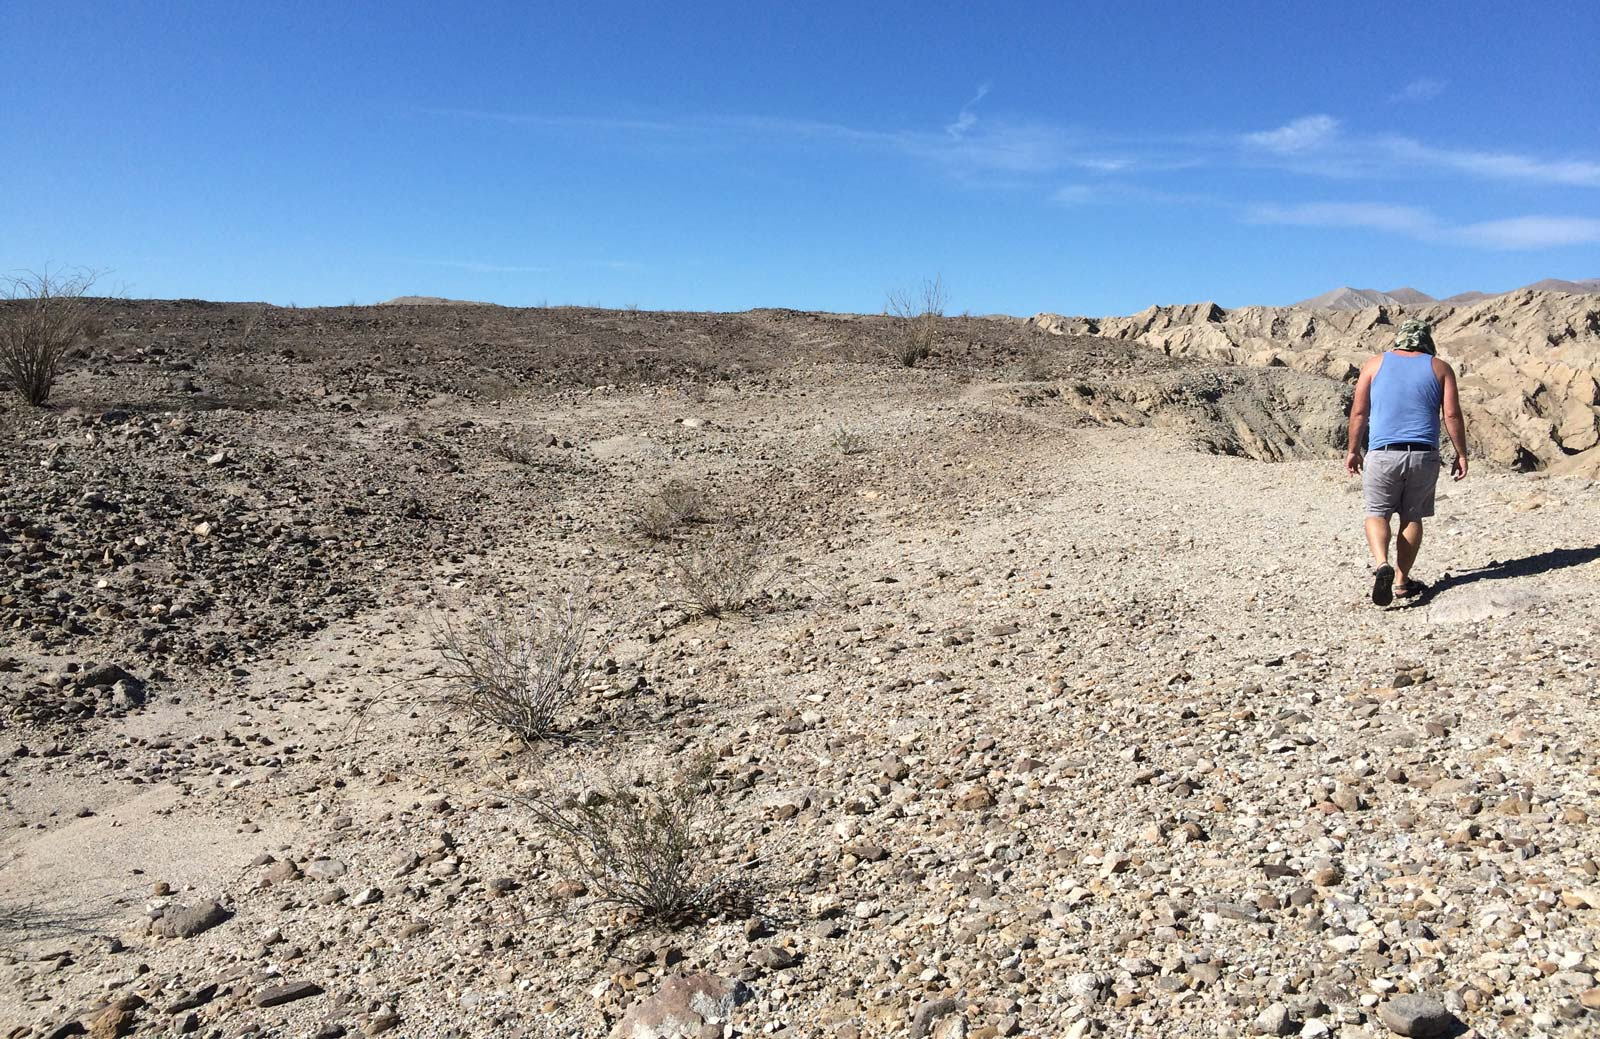
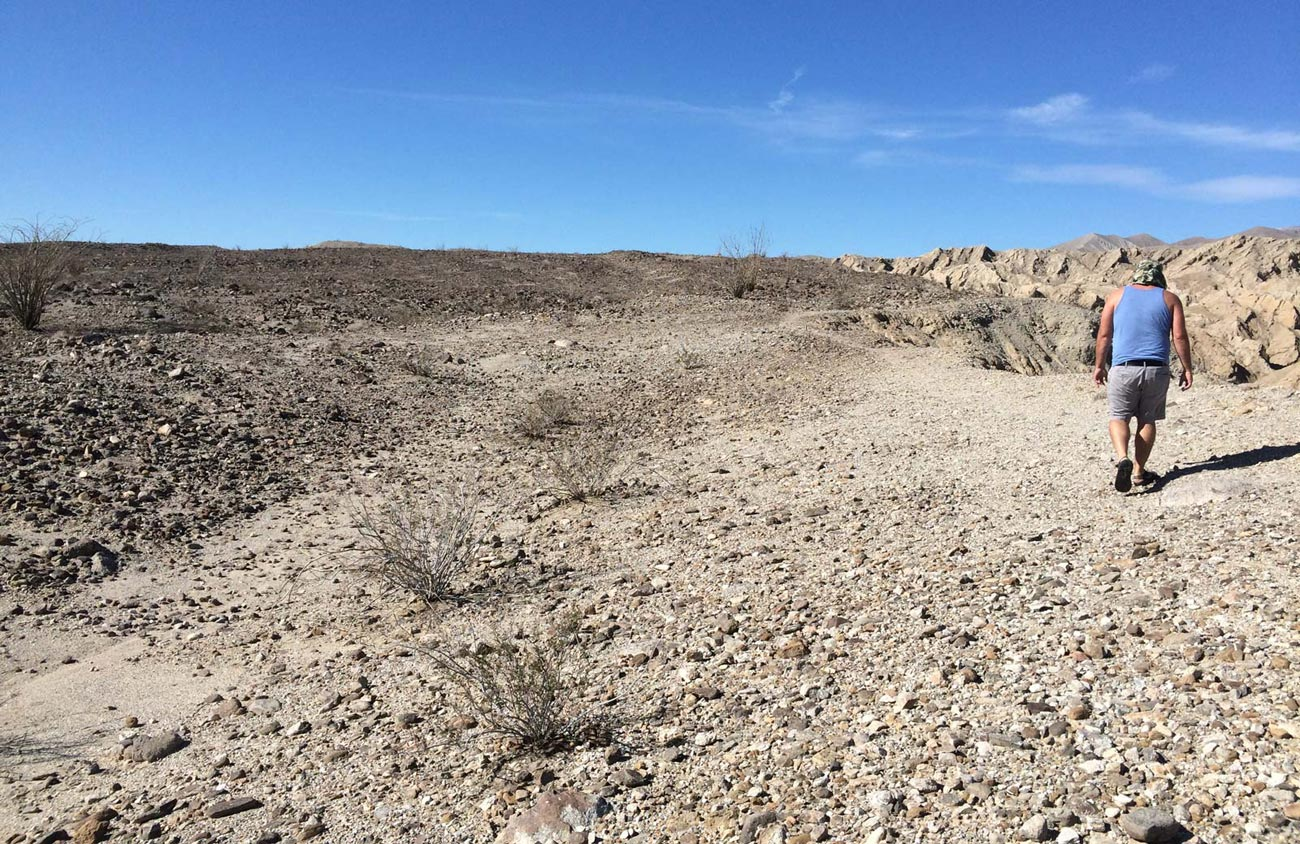
Added blur and opacity fade in on header image load.

diff --git a/js/app/app.jsx b/js/app/app.jsx
@@ -7,6 +7,7 @@ import DemoModal from '../demo-modal/demo-modal';
 import Header from '../ui/header';
 import Footer from '../ui/footer';
 import styles from './app.less';
+import cx from 'classnames';
 import keydown from 'react-keydown';
 
 class App extends Component {
@@ -21,12 +22,29 @@ class App extends Component {
 
         this.state = {
             project: null,
-            modalBgColor: null
+            modalBgColor: null,
+            contentReady: false
         };
 
         this.openModal = this.openModal.bind(this);
         this.closeModal = this.closeModal.bind(this);
     }
+
+    /**
+     *
+     */
+    componentDidMount() {
+
+        let img = new Image();
+
+        img.onload = () => {
+            this.setState({
+                contentReady: true
+            })
+        };
+
+        img.src = "/img/hero-bg.jpg";
+    };
 
     /**
      *
@@ -59,11 +77,16 @@ class App extends Component {
      * @returns {XML}
      */
     render() {
+
+        let className = cx(styles['app-body'], {
+            [styles.show]: this.state.contentReady
+        });
+
         return (
             <MuiThemeProvider>
                 <BrowserRouter>
                     <Route exact path="/">
-                        <div>
+                        <div styleName="app-body" className={className}>
                             <DemoModal project={this.state.project} closeFunc={this.closeModal}
                                        bgColor={this.state.modalBgColor}/>
                             <Header/>

diff --git a/js/app/app.less b/js/app/app.less
@@ -1,4 +1,5 @@
 @import "../ui/variables";
+@import "../ui/mixins";
 
 * {
   -moz-box-sizing: border-box;
@@ -11,23 +12,36 @@ html, body {
 }
 
 ::-webkit-scrollbar {
-  width: 0;  /* remove scrollbar space */
-  background: transparent;  /* optional: just make scrollbar invisible */
+  width: 0; /* remove scrollbar space */
+  background: transparent; /* optional: just make scrollbar invisible */
 }
 
-.content {
+.app-body {
 
-  padding: 24px;
-  display: flex;
-  justify-content: center;
-  width: 100%;
-  position: relative;
-  margin-bottom: @footer-height;
-  background-color: white;
-  z-index: 1;
+  opacity: 0;
+  .blur(20px);
 
-  .content-inner {
+  &.show {
+    opacity: 1;
+    .blur(0px);
+  }
+
+  .transition(~"opacity, filter", .7s);
+
+  .content {
+
+    padding: 24px;
     display: flex;
     justify-content: center;
+    width: 100%;
+    position: relative;
+    margin-bottom: @footer-height;
+    background-color: white;
+    z-index: 1;
+
+    .content-inner {
+      display: flex;
+      justify-content: center;
+    }
   }
 }

diff --git a/js/ui/mixins.less b/js/ui/mixins.less
@@ -135,4 +135,9 @@
   }
 }
 
+.blur(@value){
+  filter: blur(@value);
+  -webkit-filter: blur(@value);
+}
+
 
